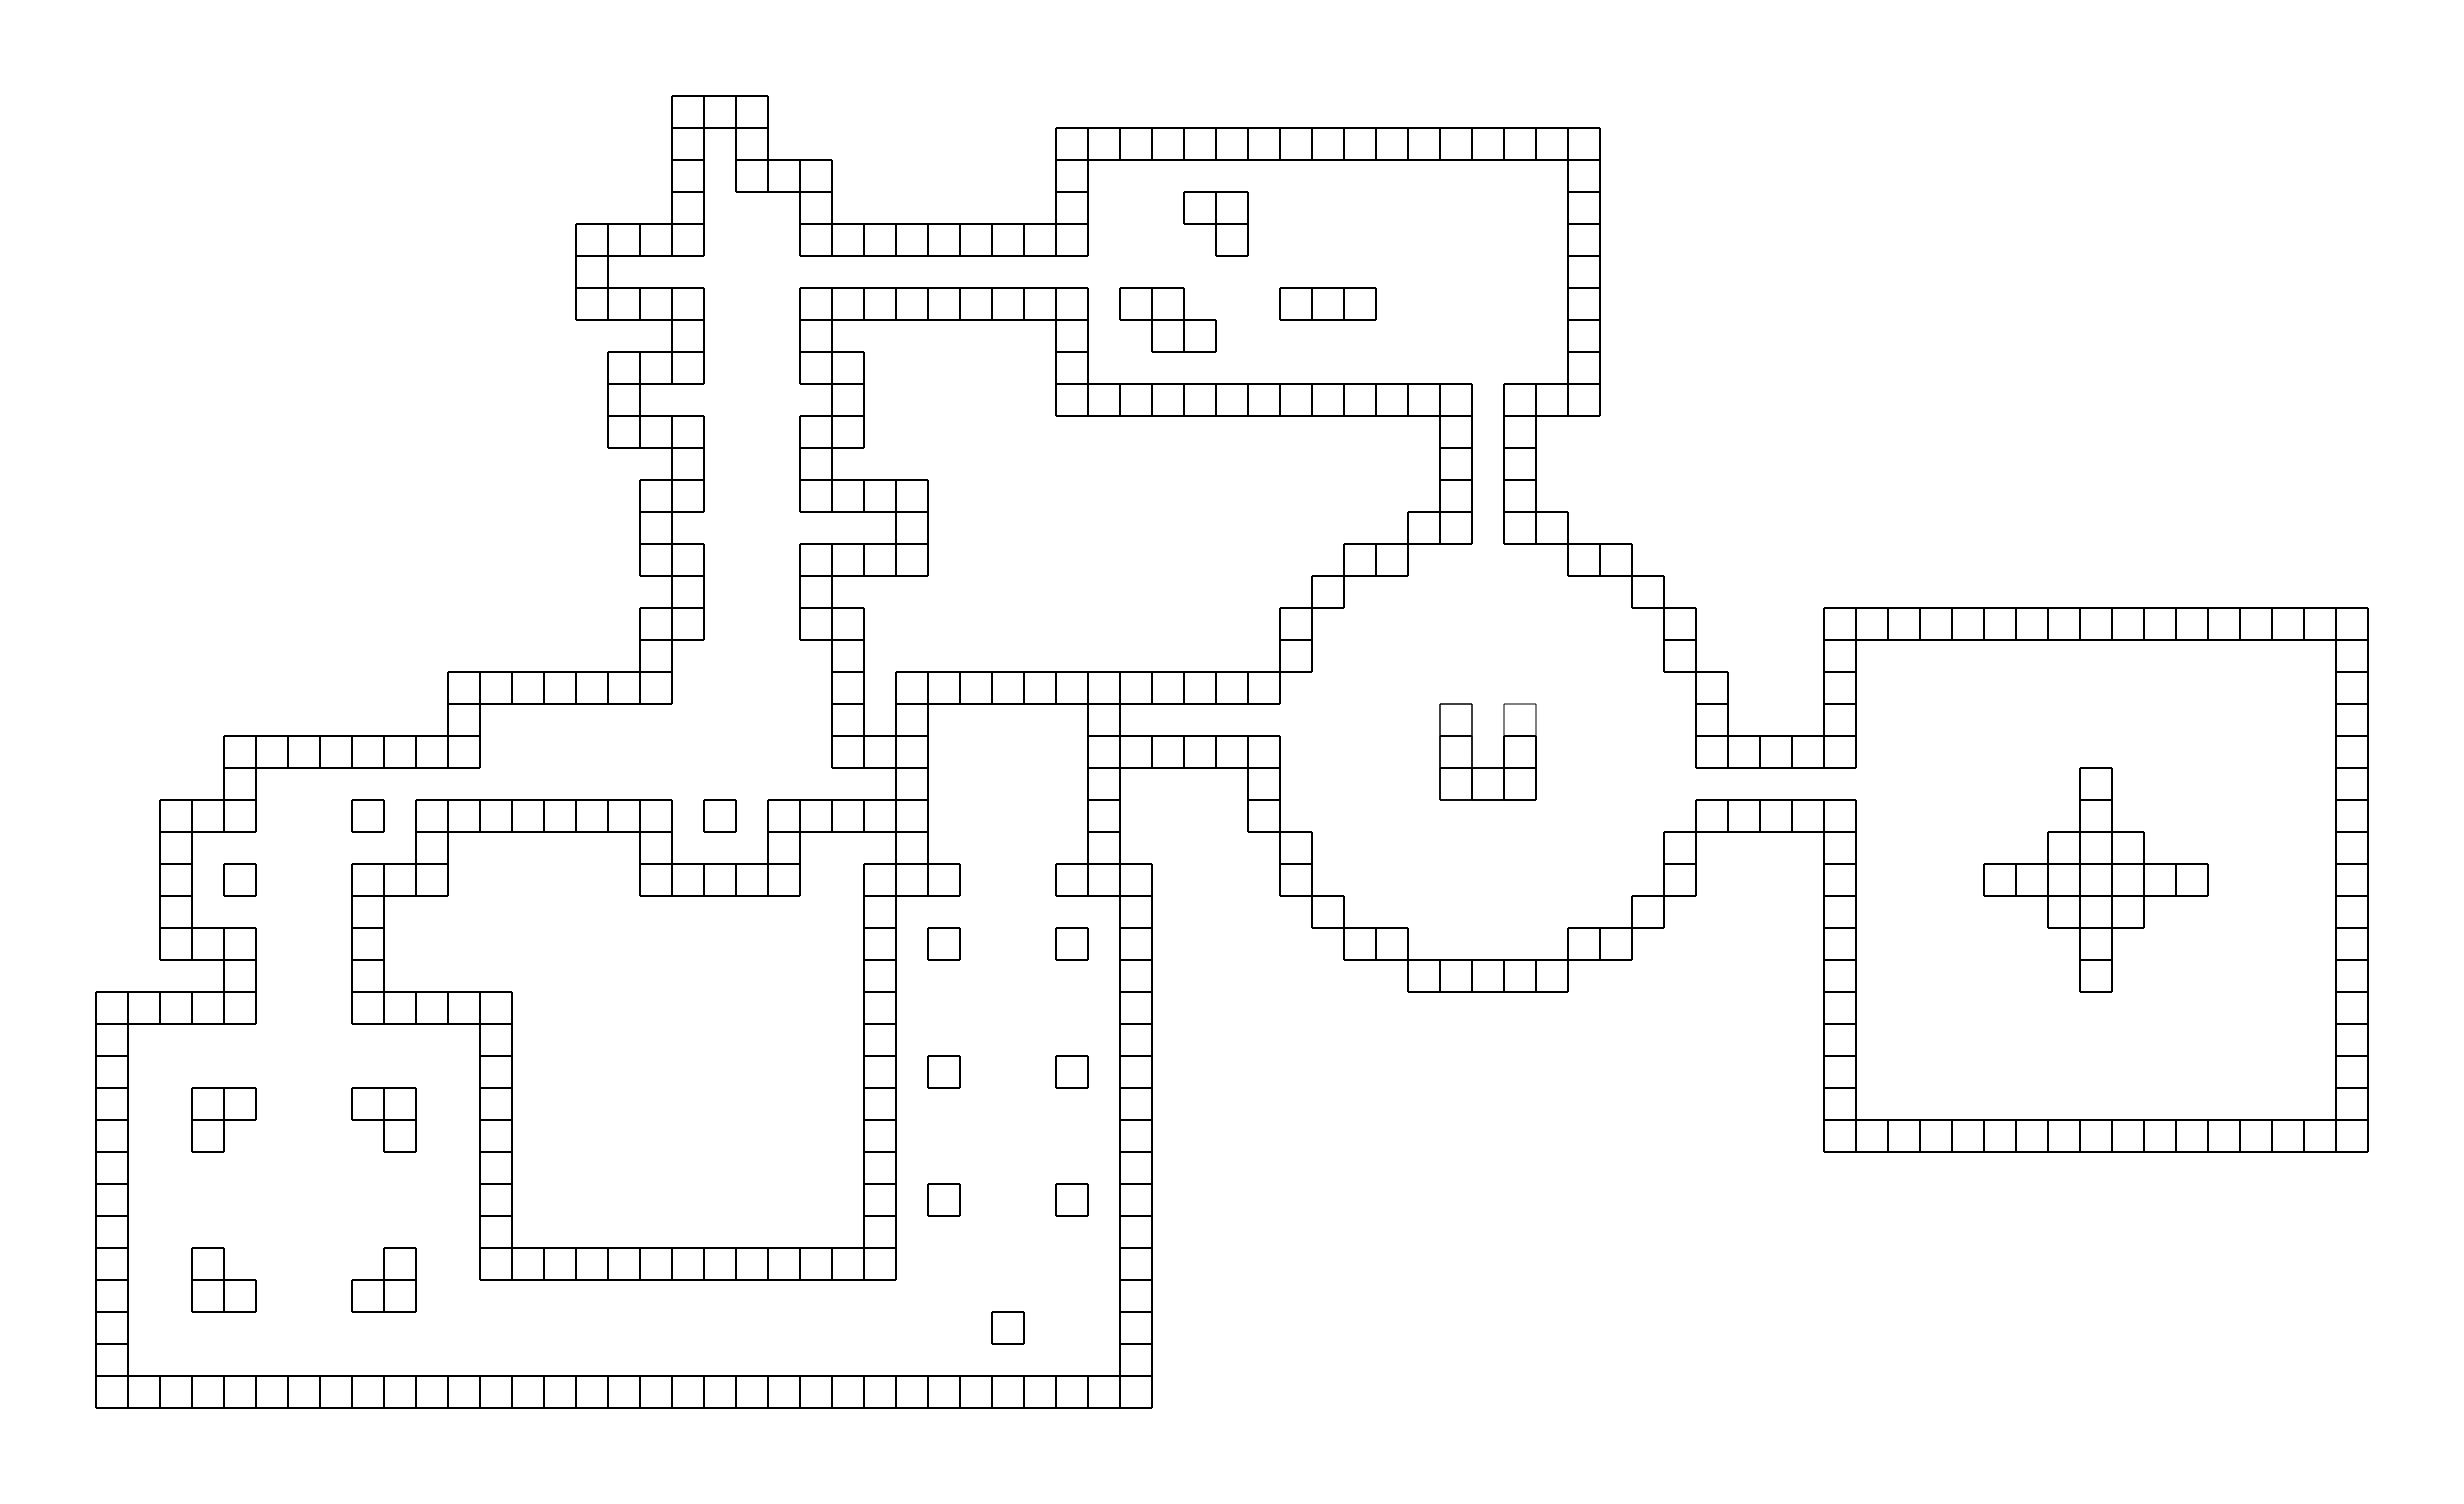
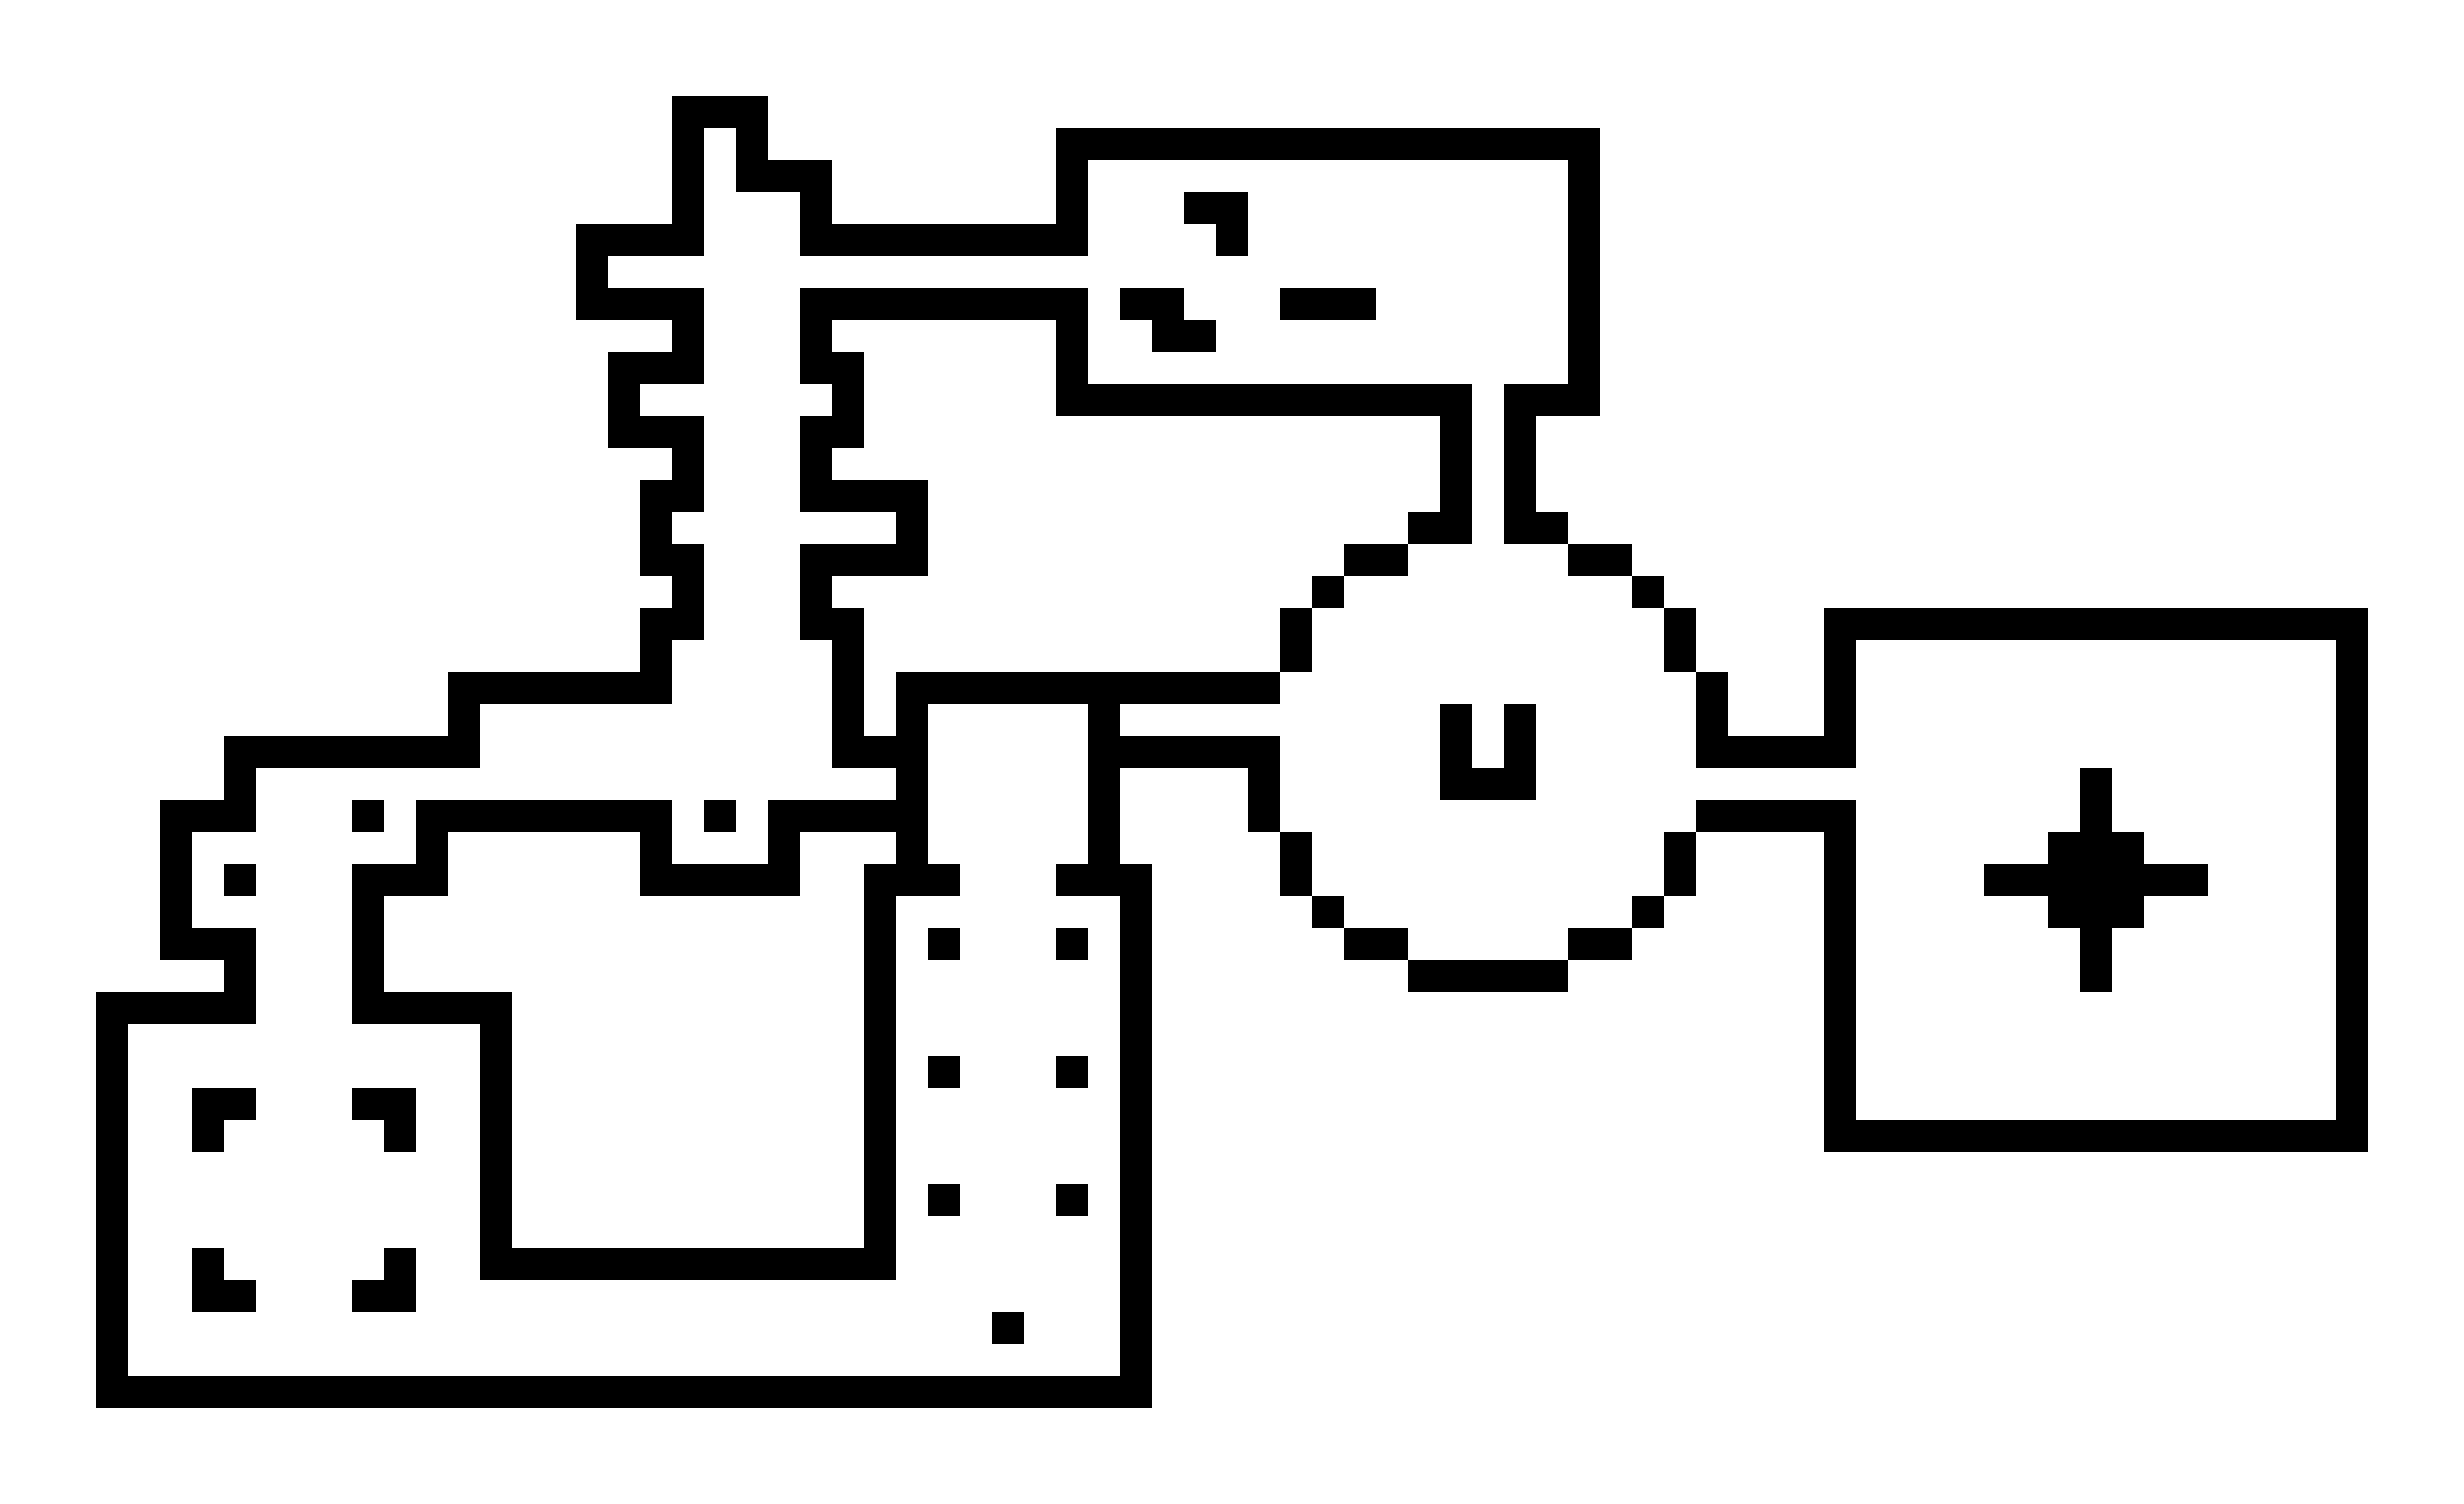
graphics overhaul

Changed region(s): [[0.0312, 0.0625, 0.9688, 0.9375], [0.5625, 0.4688, 0.625, 0.5312]]

diff --git a/source/scripts/models/Spear.js b/source/scripts/models/Spear.js
@@ -25,7 +25,7 @@ export default class Spear extends Pixi.Sprite {
                 samplePoint.x = this.parent.position.x - Math.cos(this.parent.rotation-Math.PI/2)*i*this.sampleIntervalLength
                 samplePoint.y = this.parent.position.y - Math.sin(this.parent.rotation-Math.PI/2)*i*this.sampleIntervalLength
 
-                if(i < 3){
+                //if(i < 3){
                     var tileKey = Math.floor(samplePoint.x / config.tile.size) + "-" + Math.floor(samplePoint.y / config.tile.size)
                     var currentTile = this.parent.game.tiles.childrenByKey[tileKey]
                     var tooCloseToTileCenter = currentTile != null && Geometry.getDistance(samplePoint, currentTile.position) < config.tile.size/2
@@ -36,7 +36,7 @@ export default class Spear extends Pixi.Sprite {
                         WALL_HIT_SOUND.playSound()
                         this.attackHasVictim = true
                     }
-                }
+                //}
 
                 for(var j = 0; j < this.parent.game.monsters.children.length && !this.attackHasVictim; j++){
                     var currentMonster = this.parent.game.monsters.children[j]

diff --git a/source/scripts/models/Floor.js b/source/scripts/models/Floor.js
@@ -2,9 +2,9 @@ import Pixi from "pixi.js"
 import config from "config.js"
 
 var FLOOR_TEXTURES = [
-    Pixi.Texture.fromImage(require("images/FirstSixFloors.png")),
-    Pixi.Texture.fromImage(require("images/SecondFloorSet.png")),
-    Pixi.Texture.fromImage(require("images/ThirdFloorSet.png")),
+    Pixi.Texture.fromImage(require("images/allFloors1.png"))
+    //Pixi.Texture.fromImage(require("images/SecondFloorSet.png"))
+    //Pixi.Texture.fromImage(require("images/ThirdFloorSet.png"))
     //Pixi.Texture.fromImage(require("images/cartographerDrawing1.png"))
     // Pixi.Texture.fromImage(require("images/hero.png")),
     // Pixi.Texture.fromImage(require("images/hero.png")),

diff --git a/source/scripts/utility/Cartographer.js b/source/scripts/utility/Cartographer.js
@@ -5,7 +5,7 @@ export default class Cartographer {
 	constructor(){
 		this.canvas = document.getElementById("myCanvas")
 		this.ctx = this.canvas.getContext("2d")
-		this.ctx.strokeStyle = "#000"
+		this.ctx.fillStyle = "#000"
 		this.tiles = null
 		this.image = null
 		this.minTX = 0
@@ -58,9 +58,7 @@ export default class Cartographer {
 			var pixelWidth = config.tile.size
 			var pixelHeight = config.tile.size
 			this.ctx.rect(pixelX,pixelY,pixelWidth,pixelHeight);
-			this.ctx.strokeStyle = "#000"
-			this.ctx.stroke();
-			//this.ctx.fill()
+			this.ctx.fill()
 		})
 	}
 	createImage(){
